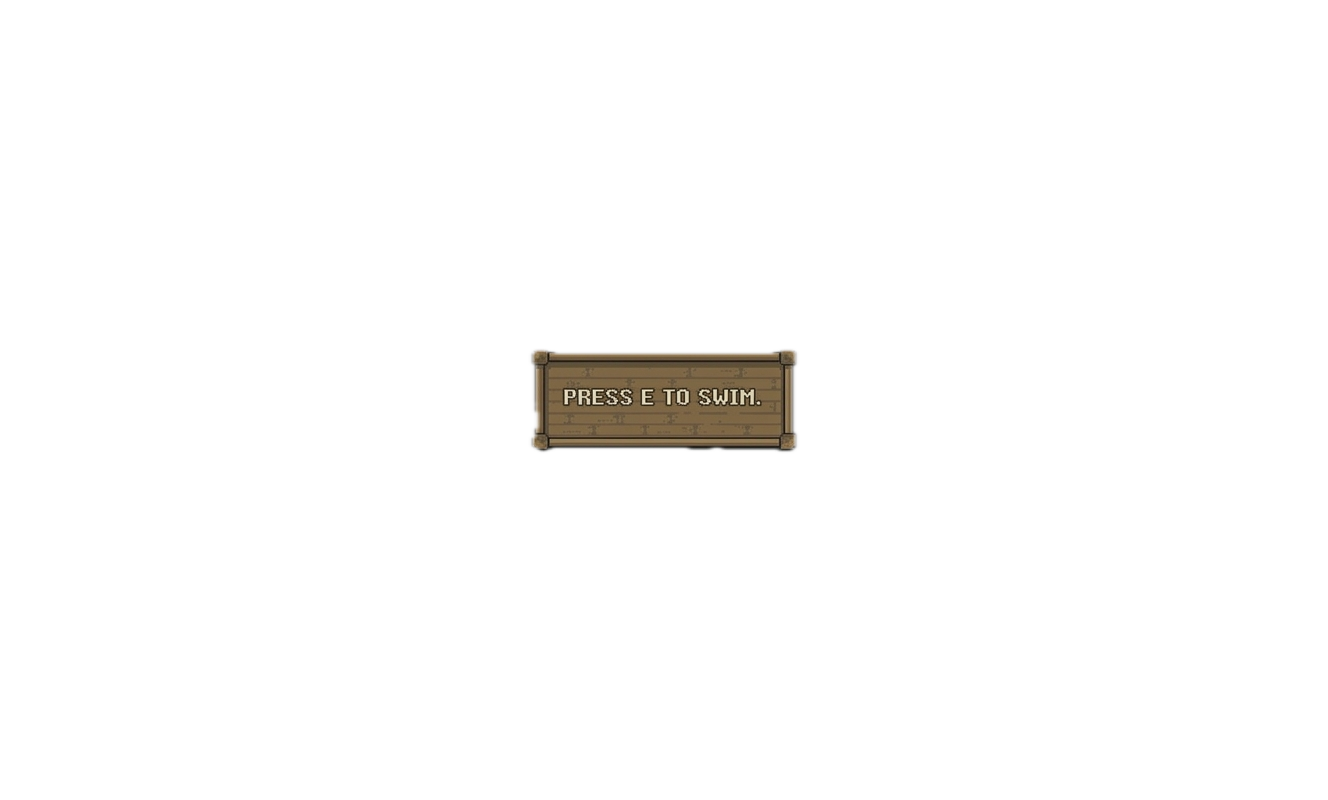
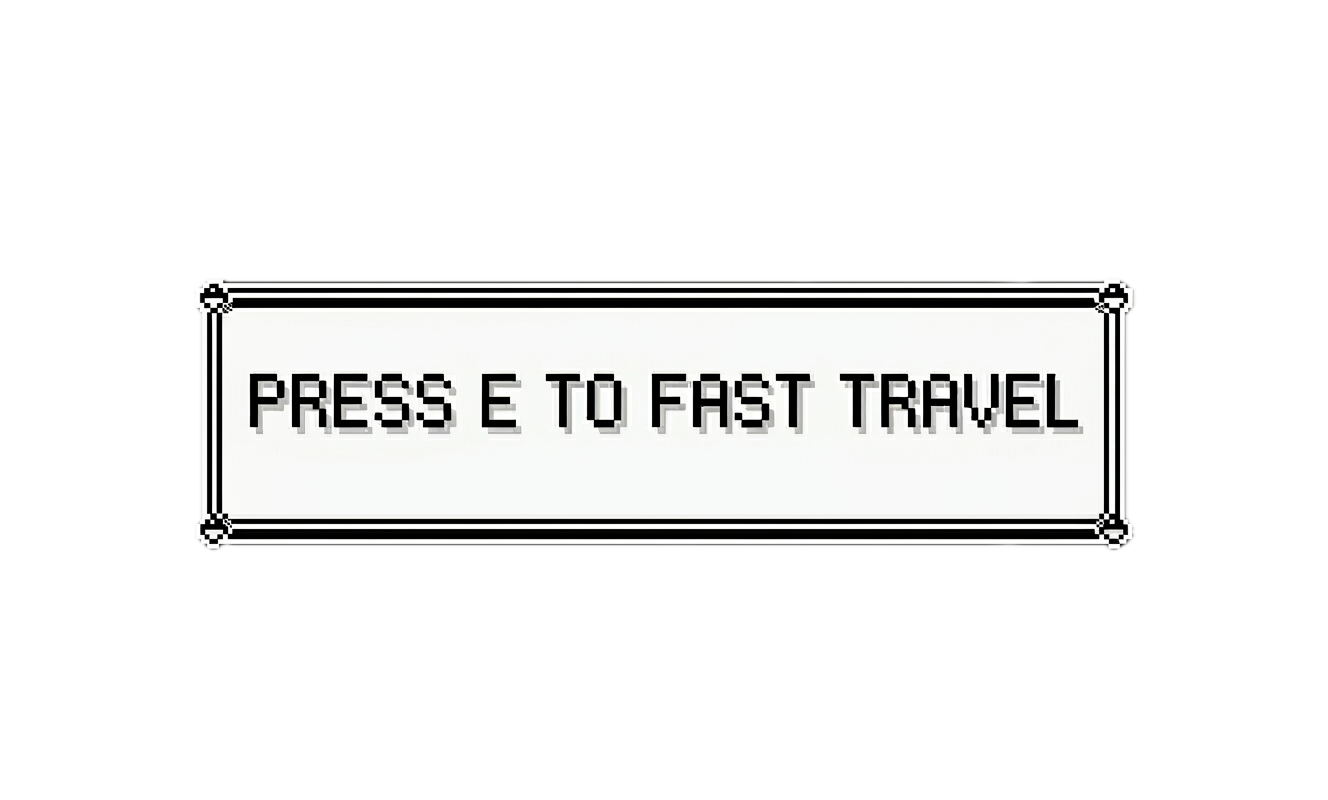
changed teleport notification

Changed region(s): [[0.1544, 0.3438, 0.8645, 0.6875]]

diff --git a/openworld.js b/openworld.js
@@ -295,11 +295,11 @@ function animateDown(){
     if(isTeleport(MoveX,MoveY)){
 
         if(map1 == 1){
-            ctx.drawImage(teleNoti, 0, 0, 1500, 800);
+            ctx.drawImage(teleNoti, 500, 200, 600, 300);
         } else if (map2 == 1){
-            ctx.drawImage(teleNoti, 100, -300, 1500, 800);
+            ctx.drawImage(teleNoti, 700, 0, 600, 300);
         }else if(map3 ==1){
-            ctx.drawImage(teleNoti, 100, -300, 1500, 800);
+            ctx.drawImage(teleNoti, 500, 200, 600, 300);
         }
 
     }
@@ -347,11 +347,11 @@ function animateUp(){
     if(isTeleport(MoveX,MoveY)){
 
         if(map1 == 1){
-            ctx.drawImage(teleNoti, 0, 0, 1500, 800);
+            ctx.drawImage(teleNoti, 500, 200, 600, 300);
         } else if (map2 == 1){
-            ctx.drawImage(teleNoti, 100, -300, 1500, 800);
+            ctx.drawImage(teleNoti, 700, 0, 600, 300);
         }else if(map3 ==1){
-            ctx.drawImage(teleNoti, 100, -300, 1500, 800);
+            ctx.drawImage(teleNoti, 500, 200, 600, 300);
         }
 
     }
@@ -400,11 +400,11 @@ function animateRight(){
     if(isTeleport(MoveX,MoveY)){
 
         if(map1 == 1){
-            ctx.drawImage(teleNoti, 0, 0, 1500, 800);
+            ctx.drawImage(teleNoti, 500, 200, 600, 300);
         } else if (map2 == 1){
-            ctx.drawImage(teleNoti, 100, -300, 1500, 800);
+            ctx.drawImage(teleNoti, 700, 0, 600, 300);
         }else if(map3 ==1){
-            ctx.drawImage(teleNoti, 100, -300, 1500, 800);
+            ctx.drawImage(teleNoti, 500, 200, 600, 300);
         }
 
     }
@@ -451,11 +451,11 @@ function animateLeft(){
     if(isTeleport(MoveX,MoveY)){
 
         if(map1 == 1){
-            ctx.drawImage(teleNoti, 0, 0, 1500, 800);
+            ctx.drawImage(teleNoti, 500, 200, 600, 300);
         } else if (map2 == 1){
-            ctx.drawImage(teleNoti, 100, -300, 1500, 800);
+            ctx.drawImage(teleNoti, 700, 0, 600, 300);
         }else if(map3 ==1){
-            ctx.drawImage(teleNoti, 100, -300, 1500, 800);
+            ctx.drawImage(teleNoti, 500, 200, 600, 300);
         }
 
     }